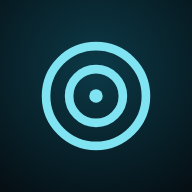
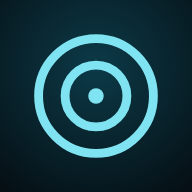
DayFlow v47

Changed region(s): [[0.1562, 0.1562, 0.8438, 0.8438], [0.3125, 0.3125, 0.6875, 0.6875], [0.4375, 0.4375, 0.5625, 0.5625]]

diff --git a/CHANGELOG.md b/CHANGELOG.md
@@ -1,7 +1,7 @@
 # DayFlow changelog
 
 ## v47 — Quick-add shortcuts
-- Long-press the installed DayFlow icon to get **New task**, **New event**, **New deadline** and **New note**; each opens that form straight away (drag one to the home screen for its own icon). Android reads the list when the app is installed, so remove and reinstall DayFlow once (back up first) to see it.
+- Long-press the installed DayFlow icon to get **New task**, **New event**, **New deadline** and **New note**; each opens that form straight away (drag one to the home screen for its own icon). Shortcut icons are full-bleed with larger symbols so they fill the round frame. Android reads the list when the app is installed, so remove and reinstall DayFlow once (back up first) to see it.
 
 ## v46 — Shorter memory, with an off switch
 - "Where you left off" (screen, open note, half-filled form) is now restored only within 30 minutes of leaving the app, so closing DayFlow and opening it later starts fresh on Today.
